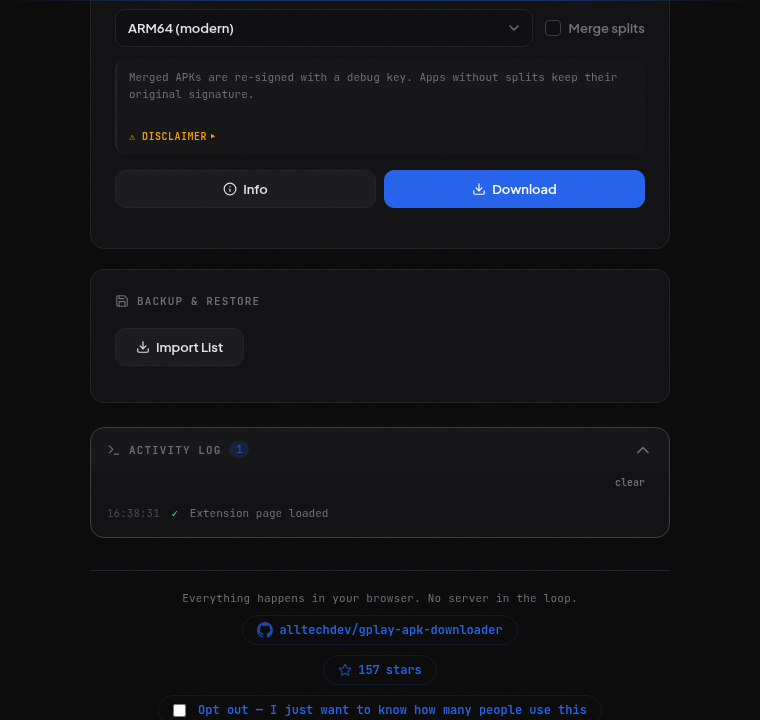
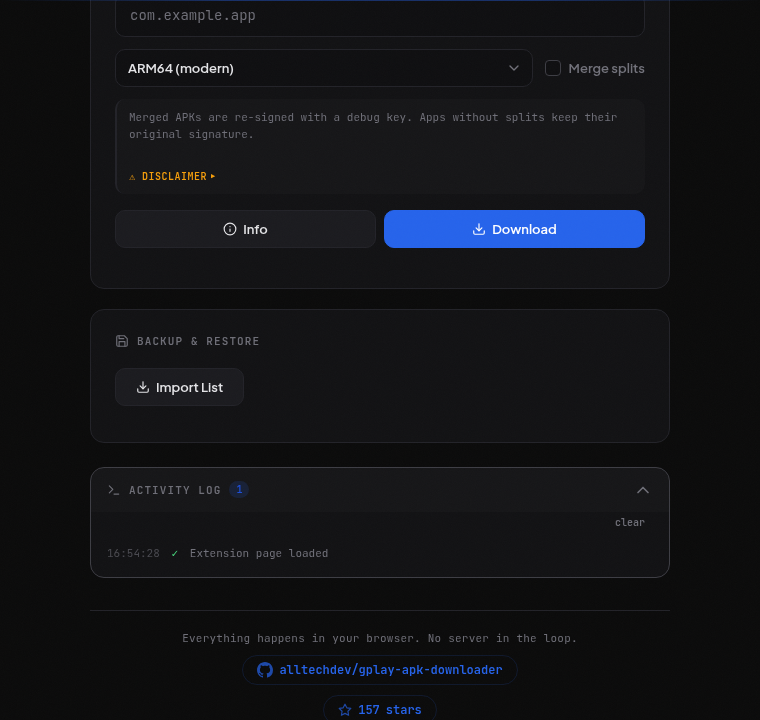
analytics: drop opt-out toggle; README explains how to remove
Footer checkbox and chrome.storage opt-out infrastructure removed.
Users who don't want the anonymous pageview ping can delete the
trackPageview() line in src/app.js. README's new Analytics section
spells this out plus how to drop the host permission entry.

diff --git a/web_extension/src/ui/analytics.js b/web_extension/src/ui/analytics.js
@@ -9,30 +9,13 @@
 // shows up under its own row in the Umami dashboard rather than mixed
 // into the website's stats.
 //
-// Opt-out: set `analytics-opt-out` to true in chrome.storage.local
-// (toggled by the checkbox in the footer).
+// To remove analytics entirely, delete the `trackPageview()` call in
+// `src/app.js` (and optionally this file).
 
 const UMAMI_HOST       = 'https://stats.dietdroid.com';
 const UMAMI_WEBSITE_ID = '9875f721-0411-4cbd-9702-87e6bb8be189';
 const EXT_HOSTNAME     = 'extension.gplaydl';
 const EXT_URL_BASE     = 'https://extension.gplaydl';
-const OPT_OUT_KEY      = 'analytics-opt-out';
-
-async function isOptedOut() {
-  try {
-    if (typeof chrome === 'undefined' || !chrome.storage?.local) return false;
-    const r = await chrome.storage.local.get(OPT_OUT_KEY);
-    return !!r[OPT_OUT_KEY];
-  } catch { return false; }
-}
-
-export async function getOptOut() { return isOptedOut(); }
-
-export async function setOptOut(value) {
-  try {
-    await chrome.storage.local.set({ [OPT_OUT_KEY]: !!value });
-  } catch { /* storage failure shouldn't break the UI */ }
-}
 
 function payload(path, extra = {}) {
   return {
@@ -48,7 +31,6 @@ function payload(path, extra = {}) {
 }
 
 async function send(payloadFields) {
-  if (await isOptedOut()) return;
   try {
     await fetch(`${UMAMI_HOST}/api/send`, {
       method: 'POST',

diff --git a/web_extension/src/app.js b/web_extension/src/app.js
@@ -8,7 +8,7 @@ import { initAdbCard } from './ui/adb-card.js';
 import { initDirectDownloadCard } from './ui/direct-download-card.js';
 import { initSearchCard } from './ui/search-card.js';
 import { initBackupCard } from './ui/backup-card.js';
-import { trackPageview, getOptOut, setOptOut } from './ui/analytics.js';
+import { trackPageview } from './ui/analytics.js';
 
 document.addEventListener('DOMContentLoaded', () => {
   initLog();
@@ -33,12 +33,7 @@ document.addEventListener('DOMContentLoaded', () => {
 
   log('Extension page loaded', 'ok');
 
-  // Analytics: a single anonymous pageview ping so the maintainer can see
-  // roughly how many people use the extension. Checkbox in the footer
-  // disables it entirely. Tagged hostname:'extension' so it stays separate
-  // from website traffic in the Umami dashboard.
-  const optOutBox = $('#analytics-opt-out');
-  getOptOut().then((v) => { optOutBox.checked = !!v; });
-  optOutBox.addEventListener('change', () => setOptOut(optOutBox.checked));
+  // Anonymous page-load ping to the extension's Umami site.
+  // Users who want to remove analytics can delete this line.
   trackPageview();
 });

diff --git a/web_extension/src/index.html b/web_extension/src/index.html
@@ -166,9 +166,6 @@
         <svg width="14" height="14" viewBox="0 0 24 24" fill="none" stroke="currentColor" stroke-width="2" stroke-linecap="round" stroke-linejoin="round"><polygon points="12 2 15.09 8.26 22 9.27 17 14.14 18.18 21.02 12 17.77 5.82 21.02 7 14.14 2 9.27 8.91 8.26 12 2"/></svg>
         <span id="gh-stars-count">—</span> stars
       </div>
-      <label class="footer-link" style="cursor:pointer;user-select:none" title="Anonymous page-load ping. No accounts, packages, or IPs stored.">
-        <input type="checkbox" id="analytics-opt-out" style="margin-right:6px">No analytics
-      </label>
     </footer>
   </div>
 

diff --git a/web_extension/README.md b/web_extension/README.md
@@ -114,7 +114,7 @@ web_extension/
       download-handler.js       split fetch (4-way parallel via pMapLimit) + zip/merge save
       install-handler.js        stream splits to a connected ADB device
       p-map-limit.js            pure ordered/bounded concurrent map helper (unit-tested)
-      analytics.js              Umami beacon (hostname='extension') + opt-out via chrome.storage
+      analytics.js              Umami pageview ping (extension's own website-id in stats.dietdroid.com)
       search-card.js            Play Store search rendering
       backup-card.js            backup app-list + import JSON + sequential restore
 
@@ -140,7 +140,7 @@ web_extension/
   docs/                         living documentation (port-spec, architecture, play-api, testing, ADRs, test-runs, changelog)
   scripts/                      install.sh, serve.mjs, dev.mjs, lint.mjs
   tests/
-    unit/                       node --test (pb-decode + drift, merger, signer structural + end-to-end `apksigner verify`, asn1, pkcs7, axml-patcher, zipalign, dom helpers, sw utils, analytics opt-out, pMapLimit, info-card helpers)
+    unit/                       node --test (pb-decode + drift, merger, signer structural + end-to-end `apksigner verify`, asn1, pkcs7, axml-patcher, zipalign, dom helpers, sw utils, analytics payload, pMapLimit, info-card helpers)
     integration/                node --test, real network (AuroraOSS + Play API)
     e2e/                        puppeteer-core + system chromium (smoke + page-loads + auth + info-and-download + backup-restore)
     fixtures/, logs/, parity/   transient + future
@@ -159,6 +159,12 @@ web_extension/
 | `storage`  | auth token + arch preference (`chrome.storage.local`); per-download → DNR-rule id map (`chrome.storage.session`) |
 | `downloads`| `chrome.downloads.download` for split files; `chrome.downloads.show` for the in-log "show in folder" action |
 | `declarativeNetRequest` + `declarativeNetRequestWithHostAccess` | rewrite forbidden headers (User-Agent / Origin / Sec-Fetch-*) and inject the per-download `Cookie` from the delivery response |
-| `host_permissions` | `auroraoss.com`, `android.clients.google.com`, `play.googleapis.com`, `*.gvt1.com`, `*.googleusercontent.com`, `fonts.googleapis.com`, `fonts.gstatic.com`, `api.github.com` |
+| `host_permissions` | `auroraoss.com`, `android.clients.google.com`, `play.googleapis.com`, `*.gvt1.com`, `*.googleusercontent.com`, `fonts.googleapis.com`, `fonts.gstatic.com`, `api.github.com`, `stats.dietdroid.com` (anonymous load counter — see Analytics below) |
 
-No `tabs` / `scripting` / `activeTab`. No content scripts. No telemetry.
+No `tabs` / `scripting` / `activeTab`. No content scripts.
+
+## Analytics
+
+The extension fires one anonymous Umami pageview ping to `stats.dietdroid.com` on each page load — just enough for me to see roughly how many people use the tool. No accounts, package names, IPs, or other identifying data are stored.
+
+**To remove it entirely**, delete the `trackPageview()` line in [`src/app.js`](src/app.js). The rest of the extension does not depend on `analytics.js`. You can also remove `stats.dietdroid.com` from `host_permissions` in `src/manifest.json`.
